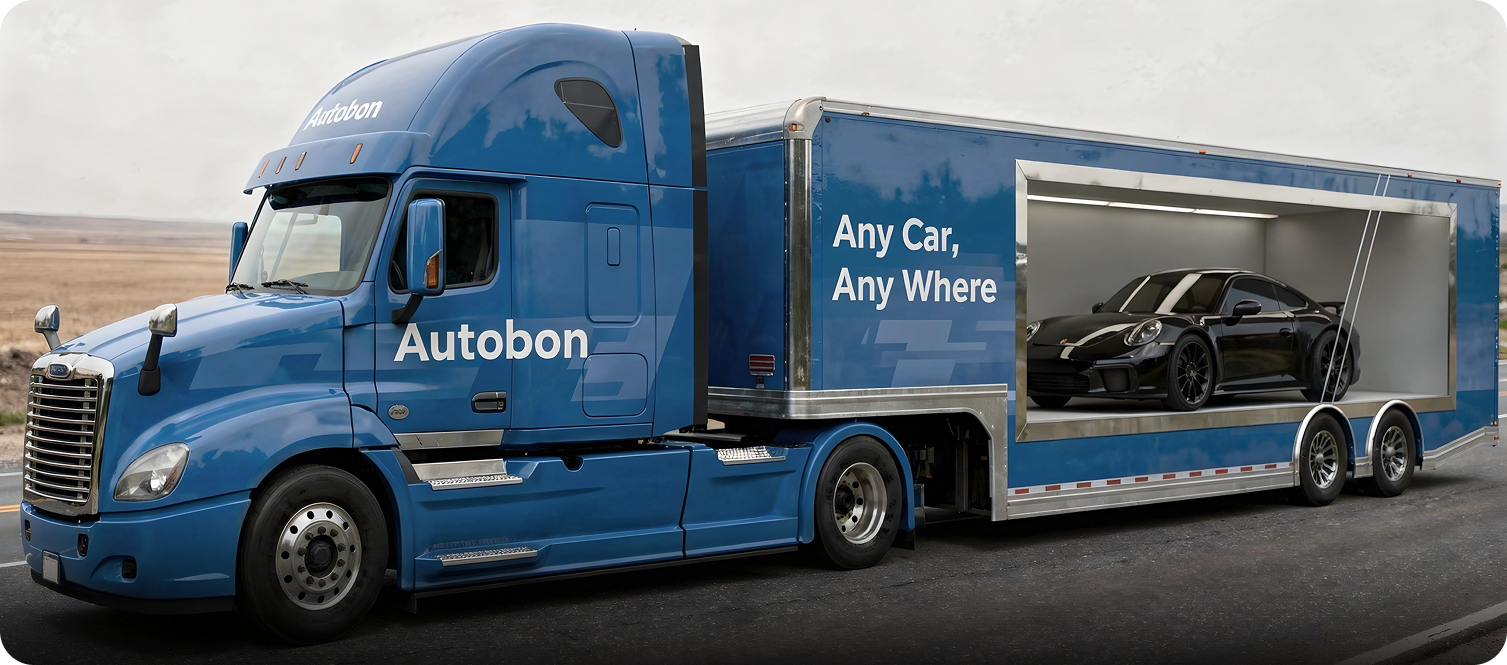
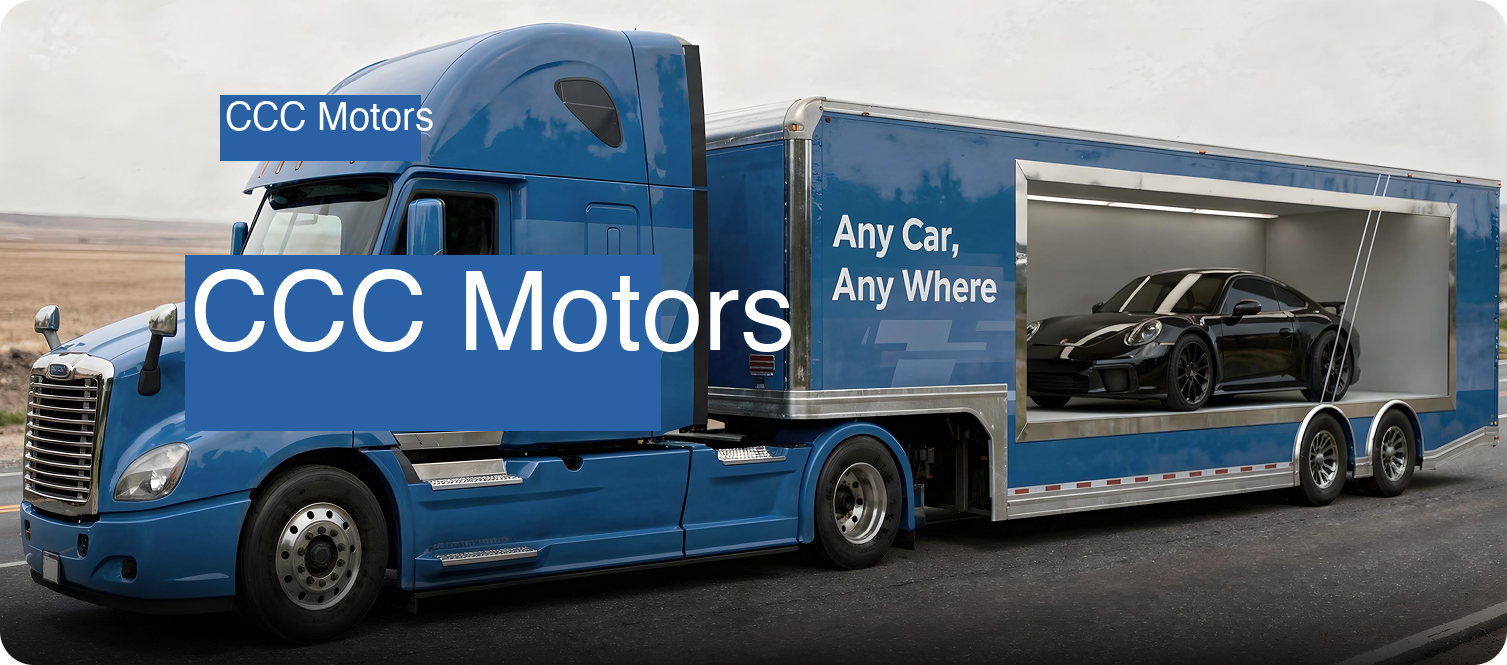
Replace Autobon with CCC Motors in images and JS display text

Changed region(s): [[0.1248, 0.3609, 0.5302, 0.6617], [0.1248, 0.1203, 0.2807, 0.2406]]

diff --git a/autobon.ca/_next/static/chunks/ba9345cc97004f13.js b/autobon.ca/_next/static/chunks/ba9345cc97004f13.js
@@ -5,4 +5,4 @@
                 ${l!==i.length-1?"md:border-r border-[#e3e3e3]":""} 
                 ${l!==i.length-1?"border-b md:border-b-0 border-[#e3e3e3]":""}`,children:(0,t.jsxs)("div",{className:"w-full relative",children:[(0,t.jsx)("span",{className:"absolute left-[-32px] top-0 w-[2px] h-[38px] bg-primary rounded-r-sm"}),(0,t.jsxs)("div",{className:"flex flex-col items-start",children:[(0,t.jsx)("h3",{className:"text-[18px] lg:text-[25px] font-semibold text-black leading-tight mb-2",children:e.title}),(0,t.jsx)("p",{className:"text-[12px  ] lg:text-[15px] text-gray-500 leading-relaxed",children:e.description})]})]})},l))})]})}),s[2]=r):r=s[2],r}])},86116,e=>{"use strict";var t=e.i(43476),l=e.i(932);e.i(71645);var a=e.i(22016);e.s(["default",0,()=>{let e,r,s,i=(0,l.c)(3);i[0]===Symbol.for("react.memo_cache_sentinel")?(e=[{title:"Have a loan?",description:"We’ll pay it off when we buy your car"},{title:"Leasing?",description:"We buy out your lease and you save on tax*"},{title:"Owe more than your car’s worth?",description:"You can pay the difference over time!"}],i[0]=e):e=i[0];let o=e;return i[1]===Symbol.for("react.memo_cache_sentinel")?(r=(0,t.jsx)("div",{className:"flex flex-col items-center gap-1 mb-[60px]",children:(0,t.jsx)("h2",{className:"text-[30px] lg:text-[54px] font-semibold text-black tracking-tight text-center leading-tight",children:"Loan, lease? We'll still buy it!"})}),i[1]=r):r=i[1],i[2]===Symbol.for("react.memo_cache_sentinel")?(s=(0,t.jsx)("section",{className:"w-full bg-background py-[80px] overflow-hidden",children:(0,t.jsxs)("div",{className:" mx-auto px-[20px] lg:px-[0px] flex flex-col items-center",children:[r,(0,t.jsx)("div",{className:"w-full max-w-[1300px] grid grid-cols-1 md:grid-cols-3 border border-[#e3e3e3] rounded-[10px] overflow-hidden bg-white shadow-sm",children:o.map((e,l)=>(0,t.jsxs)("div",{className:`p-8 py-6 lg:py-6 lg:p-10 flex flex-col justify-between items-center lg:items-start text-center lg:text-left transition-colors hover:bg-gray-50/50 
                     ${l!==o.length-1?"md:border-r border-[#e3e3e3]":""} 
-                ${l!==o.length-1?"border-b md:border-b-0 border-[#e3e3e3]":""}`,children:[(0,t.jsxs)("div",{className:"mb-3 flex justify-start items-start flex-col w-full",children:[(0,t.jsx)("h3",{className:" text-[18px]  lg:text-[25px] w-full text-start font-semibold text-[#272727] mb-3",children:e.title}),(0,t.jsx)("p",{className:"text-[12px] lg:text-[16px] text-start text-[#6D6D6D] leading-relaxed max-w-[300px]",children:e.description})]}),(0,t.jsx)("div",{className:"pt-0 mt-auto w-full lg:border-none",children:(0,t.jsx)(a.default,{href:"/finance",className:"group text-center flex items-center gap-2   underline hover:border-primary hover:text-primary transition-all text-[13px] lg:text-[15px] font-medium text-[#272727]",children:"View example"})})]},l))})]})}),i[2]=s):s=i[2],s}])},34582,e=>{"use strict";var t=e.i(43476),l=e.i(932);e.i(71645);var a=e.i(91791),r=e.i(22016);e.s(["default",0,()=>{let e,s,i=(0,l.c)(2);return i[0]===Symbol.for("react.memo_cache_sentinel")?(e=(0,t.jsxs)("div",{className:"relative w-full rounded-[20px] md:rounded-[32px] overflow-hidden    h-[250px] md:h-[500px] lg:h-[600px]",children:[(0,t.jsx)("img",{src:a.default.src,alt:"Trade in and save",className:"absolute inset-0 w-full h-[180px] md:h-full object-cover object-center"}),(0,t.jsx)("div",{className:"absolute hidden lg-visible inset-0 bg-black/35"})]}),i[0]=e):e=i[0],i[1]===Symbol.for("react.memo_cache_sentinel")?(s=(0,t.jsx)("section",{className:"w-full py-[60px] lg:py-[100px] px-[20px] lg:px-[0px]",children:(0,t.jsx)("div",{className:" mx-auto flex flex-col items-center",children:(0,t.jsxs)("div",{className:"relative w-full flex flex-col items-center",children:[e,(0,t.jsxs)("div",{className:"relative z-20 -mt-[100px] md:-mt-[180px] w-[95%] md:w-full max-w-[800px] bg-white rounded-[16px] md:rounded-[23px] shadow-[0_30px_60px_rgba(0,0,0,0.12)] border border-gray-100 p-6 md:p-12 flex flex-col items-center text-center gap-3 md:gap-6",children:[(0,t.jsxs)("div",{className:"flex flex-col items-center gap-3",children:[(0,t.jsx)("h3",{className:"text-[20px] md:text-[36px] font-bold text-[#272727] leading-tight",children:"Trade in and save"}),(0,t.jsx)("p",{className:"text-[10px] md:text-[16px] text-[#6D6D6D] font-medium leading-relaxed max-w-[450px]",children:"Get up to 20% more for your car through tax savings when you trade it in"})]}),(0,t.jsx)(r.default,{href:"/sell-car",className:"md:mt-2  mt-0 max-w-[500px] w-full  bg-primary hover:bg-primary/90 text-white font-semibold px-12 py-3 md:py-4 rounded-full shadow-lg shadow-primary/20 transition-all hover:scale-[1.03] active:scale-[0.97] whitespace-nowrap text-[16px] md:text-[18px]",children:"Get instant offer"})]})]})})}),i[1]=s):s=i[1],s}])},8903,e=>{"use strict";var t=e.i(43476),l=e.i(37902),a=e.i(932);e.i(71645);var r=e.i(67547);e.s(["default",0,()=>{let e,s,i,o,n,c,d=(0,a.c)(6);if(d[0]===Symbol.for("react.memo_cache_sentinel")){let l=[{autobon:"10 days to try it out",autobonSub:"Take your time to know the car",oldway:"No return option",oldwaySub:"Sale is final"},{autobon:"Only 15 mins on average",autobonSub:"Quick and efficient process",oldway:"Haggling forever",oldwaySub:"Hours spent at dealerships"},{autobon:"You pick your route",autobonSub:"City, highway, night, rain, etc.",oldway:"Seller picks route",oldwaySub:"Limited speeds/conditions"},{autobon:"Completely unaccompanied",autobonSub:"No pressure, no rush",oldway:"Accompanied by salesperson",oldwaySub:"Constant pressure to decide"},{autobon:"Full money-back guarantee",autobonSub:"For any reason",oldway:"Limited feel for quirks",oldwaySub:"Hidden issues stay yours"}];e=e=>(0,t.jsx)("div",{className:"flex-1 flex flex-col",children:l.map((l,a)=>(0,t.jsx)("div",{className:`flex-1 p-4 lg:p-4 flex items-start justify-start gap-4 border-b border-gray-100 last:border-0 ${a%2==0?"bg-[#fafafa]":"bg-white"}`,children:(0,t.jsxs)("div",{className:"flex flex-col text-left",children:[(0,t.jsx)("span",{className:`text-[13px] lg:text-[15px] leading-tight ${"autobon"===e?"font-semibold text-black":"font-semibold text-[#272727]"}`,children:"autobon"===e?l.autobon:l.oldway}),(0,t.jsx)("span",{className:"text-[11px] lg:text-[13px] text-gray-500 font-medium mt-1",children:"autobon"===e?l.autobonSub:l.oldwaySub})]})},a))}),d[0]=e}else e=d[0];let x=e;return d[1]===Symbol.for("react.memo_cache_sentinel")?(s=(0,t.jsx)(l.default,{id:"29f0e6afc5f8358a",children:"@keyframes leaf-rotate{0%{transform:rotate(-10deg)}50%{transform:rotate(10deg)}to{transform:rotate(-10deg)}}.animate-leaf.jsx-29f0e6afc5f8358a{animation:3s ease-in-out infinite leaf-rotate}"}),d[1]=s):s=d[1],d[2]===Symbol.for("react.memo_cache_sentinel")?(i=(0,t.jsx)("div",{className:"flex flex-col items-center gap-4 mb-[40px] lg:mb-[60px] text-center",children:(0,t.jsxs)("h2",{className:"text-[32px] lg:text-[54px] font-semibold text-black tracking-tight leading-tight max-w-[900px]",children:["Why sell your car online to"," ",(0,t.jsx)("span",{className:"text-primary",children:"CCC Motors?"})]})}),d[2]=i):i=d[2],d[3]===Symbol.for("react.memo_cache_sentinel")?(o=(0,t.jsxs)("div",{className:"relative w-full md:flex-1 overflow-hidden order-1 md:order-1 flex flex-col bg-white rounded-[10px] md:scale-100 border border-[#DDDDDD] sp-shadow z-20",children:[(0,t.jsxs)("div",{className:"p-6 pb-4 flex justify-between items-center border-b border-[#DDDDDD] bg-white rounded-t-[20px]",children:[(0,t.jsx)("div",{children:(0,t.jsxs)("h3",{className:"text-[20px] lg:text-[26px] font-bold text-[#272727]",children:["The ",(0,t.jsx)("span",{className:"text-primary",children:"CCC Motors"})," way"]})}),(0,t.jsx)("img",{src:r.default.src,alt:"Leaf",className:"animate-leaf w-8 h-8 lg:w-10 lg:h-10"})]}),x("autobon")]}),d[3]=o):o=d[3],d[4]===Symbol.for("react.memo_cache_sentinel")?(n=(0,t.jsx)("div",{className:"order-2 flex items-center justify-center mt-5",children:(0,t.jsx)("div",{className:"text-[#606060] font-semibold w-12 h-12 lg:w-16 lg:h-16 rounded-full flex items-center justify-center italic text-lg lg:text-xl z-30",children:"-VS-"})}),d[4]=n):n=d[4],d[5]===Symbol.for("react.memo_cache_sentinel")?(c=(0,t.jsxs)("section",{className:"w-full bg-background py-[60px] lg:py-[100px] overflow-hidden",children:[s,(0,t.jsxs)("div",{className:"mx-auto px-[20px] lg:px-[0px] flex flex-col items-center",children:[i,(0,t.jsxs)("div",{className:"flex flex-col md:flex-row lg:px-20 w-full max-w-[1100px] items-center justify-center gap-0 md:gap-6 lg:gap-10",children:[o,n,(0,t.jsxs)("div",{className:"w-full scale-90 md:flex-1 order-3 md:order-3 flex flex-col bg-white border border-[#DDDDDD] rounded-[10px] overflow-hidden opacity-90 md:opacity-80 md:scale-90 transition-all hover:opacity-100",children:[(0,t.jsx)("div",{className:"p-6 pb-4 bg-white border-b border-[#DDDDDD] bg-[#F9F9F9]",children:(0,t.jsx)("h3",{className:"text-[20px] font-bold text-[#272727]",children:"The old way"})}),x("oldway")]})]})]})]}),d[5]=c):c=d[5],c}])}]);
+                ${l!==o.length-1?"border-b md:border-b-0 border-[#e3e3e3]":""}`,children:[(0,t.jsxs)("div",{className:"mb-3 flex justify-start items-start flex-col w-full",children:[(0,t.jsx)("h3",{className:" text-[18px]  lg:text-[25px] w-full text-start font-semibold text-[#272727] mb-3",children:e.title}),(0,t.jsx)("p",{className:"text-[12px] lg:text-[16px] text-start text-[#6D6D6D] leading-relaxed max-w-[300px]",children:e.description})]}),(0,t.jsx)("div",{className:"pt-0 mt-auto w-full lg:border-none",children:(0,t.jsx)(a.default,{href:"/finance",className:"group text-center flex items-center gap-2   underline hover:border-primary hover:text-primary transition-all text-[13px] lg:text-[15px] font-medium text-[#272727]",children:"View example"})})]},l))})]})}),i[2]=s):s=i[2],s}])},34582,e=>{"use strict";var t=e.i(43476),l=e.i(932);e.i(71645);var a=e.i(91791),r=e.i(22016);e.s(["default",0,()=>{let e,s,i=(0,l.c)(2);return i[0]===Symbol.for("react.memo_cache_sentinel")?(e=(0,t.jsxs)("div",{className:"relative w-full rounded-[20px] md:rounded-[32px] overflow-hidden    h-[250px] md:h-[500px] lg:h-[600px]",children:[(0,t.jsx)("img",{src:a.default.src,alt:"Trade in and save",className:"absolute inset-0 w-full h-[180px] md:h-full object-cover object-center"}),(0,t.jsx)("div",{className:"absolute hidden lg-visible inset-0 bg-black/35"})]}),i[0]=e):e=i[0],i[1]===Symbol.for("react.memo_cache_sentinel")?(s=(0,t.jsx)("section",{className:"w-full py-[60px] lg:py-[100px] px-[20px] lg:px-[0px]",children:(0,t.jsx)("div",{className:" mx-auto flex flex-col items-center",children:(0,t.jsxs)("div",{className:"relative w-full flex flex-col items-center",children:[e,(0,t.jsxs)("div",{className:"relative z-20 -mt-[100px] md:-mt-[180px] w-[95%] md:w-full max-w-[800px] bg-white rounded-[16px] md:rounded-[23px] shadow-[0_30px_60px_rgba(0,0,0,0.12)] border border-gray-100 p-6 md:p-12 flex flex-col items-center text-center gap-3 md:gap-6",children:[(0,t.jsxs)("div",{className:"flex flex-col items-center gap-3",children:[(0,t.jsx)("h3",{className:"text-[20px] md:text-[36px] font-bold text-[#272727] leading-tight",children:"Trade in and save"}),(0,t.jsx)("p",{className:"text-[10px] md:text-[16px] text-[#6D6D6D] font-medium leading-relaxed max-w-[450px]",children:"Get up to 20% more for your car through tax savings when you trade it in"})]}),(0,t.jsx)(r.default,{href:"/sell-car",className:"md:mt-2  mt-0 max-w-[500px] w-full  bg-primary hover:bg-primary/90 text-white font-semibold px-12 py-3 md:py-4 rounded-full shadow-lg shadow-primary/20 transition-all hover:scale-[1.03] active:scale-[0.97] whitespace-nowrap text-[16px] md:text-[18px]",children:"Get instant offer"})]})]})})}),i[1]=s):s=i[1],s}])},8903,e=>{"use strict";var t=e.i(43476),l=e.i(37902),a=e.i(932);e.i(71645);var r=e.i(67547);e.s(["default",0,()=>{let e,s,i,o,n,c,d=(0,a.c)(6);if(d[0]===Symbol.for("react.memo_cache_sentinel")){let l=[{autobon:"10 days to try it out",autobonSub:"Take your time to know the car",oldway:"No return option",oldwaySub:"Sale is final"},{autobon:"Only 15 mins on average",autobonSub:"Quick and efficient process",oldway:"Haggling forever",oldwaySub:"Hours spent at dealerships"},{autobon:"You pick your route",autobonSub:"City, highway, night, rain, etc.",oldway:"Seller picks route",oldwaySub:"Limited speeds/conditions"},{autobon:"Completely unaccompanied",autobonSub:"No pressure, no rush",oldway:"Accompanied by salesperson",oldwaySub:"Constant pressure to decide"},{autobon:"Full money-back guarantee",autobonSub:"For any reason",oldway:"Limited feel for quirks",oldwaySub:"Hidden issues stay yours"}];e=e=>(0,t.jsx)("div",{className:"flex-1 flex flex-col",children:l.map((l,a)=>(0,t.jsx)("div",{className:`flex-1 p-4 lg:p-4 flex items-start justify-start gap-4 border-b border-gray-100 last:border-0 ${a%2==0?"bg-[#fafafa]":"bg-white"}`,children:(0,t.jsxs)("div",{className:"flex flex-col text-left",children:[(0,t.jsx)("span",{className:`text-[13px] lg:text-[15px] leading-tight ${"autobon"===e?"font-semibold text-black":"font-semibold text-[#272727]"}`,children:"autobon"===e?l.autobon:l.oldway}),(0,t.jsx)("span",{className:"text-[11px] lg:text-[13px] text-gray-500 font-medium mt-1",children:"autobon"===e?l.autobonSub:l.oldwaySub})]})},a))}),d[0]=e}else e=d[0];let x=e;return d[1]===Symbol.for("react.memo_cache_sentinel")?(s=(0,t.jsx)(l.default,{id:"29f0e6afc5f8358a",children:"@keyframes leaf-rotate{0%{transform:rotate(-10deg)}50%{transform:rotate(10deg)}to{transform:rotate(-10deg)}}.animate-leaf.jsx-29f0e6afc5f8358a{animation:3s ease-in-out infinite leaf-rotate}"}),d[1]=s):s=d[1],d[2]===Symbol.for("react.memo_cache_sentinel")?(i=(0,t.jsx)("div",{className:"flex flex-col items-center gap-4 mb-[40px] lg:mb-[60px] text-center",children:(0,t.jsxs)("h2",{className:"text-[32px] lg:text-[54px] font-semibold text-black tracking-tight leading-tight max-w-[900px]",children:["Why sell your car online to"," ",(0,t.jsx)("span",{className:"text-primary",children:"CCC Motors?"})]})}),d[2]=i):i=d[2],d[3]===Symbol.for("react.memo_cache_sentinel")?(o=(0,t.jsxs)("div",{className:"relative w-full md:flex-1 overflow-hidden order-1 md:order-1 flex flex-col bg-white rounded-[10px] md:scale-100 border border-[#DDDDDD] sp-shadow z-20",children:[(0,t.jsxs)("div",{className:"p-6 pb-4 flex justify-between items-center border-b border-[#DDDDDD] bg-white rounded-t-[20px]",children:[(0,t.jsx)("div",{children:(0,t.jsxs)("h3",{className:"text-[20px] lg:text-[26px] font-bold text-[#272727]",children:["The ",(0,t.jsx)("span",{className:"text-primary",children:"CCC Motors"})," way"]})}),(0,t.jsx)("img",{src:r.default.src,alt:"Leaf",className:"animate-leaf w-8 h-8 lg:w-10 lg:h-10"})]}),x("CCC Motors")]}),d[3]=o):o=d[3],d[4]===Symbol.for("react.memo_cache_sentinel")?(n=(0,t.jsx)("div",{className:"order-2 flex items-center justify-center mt-5",children:(0,t.jsx)("div",{className:"text-[#606060] font-semibold w-12 h-12 lg:w-16 lg:h-16 rounded-full flex items-center justify-center italic text-lg lg:text-xl z-30",children:"-VS-"})}),d[4]=n):n=d[4],d[5]===Symbol.for("react.memo_cache_sentinel")?(c=(0,t.jsxs)("section",{className:"w-full bg-background py-[60px] lg:py-[100px] overflow-hidden",children:[s,(0,t.jsxs)("div",{className:"mx-auto px-[20px] lg:px-[0px] flex flex-col items-center",children:[i,(0,t.jsxs)("div",{className:"flex flex-col md:flex-row lg:px-20 w-full max-w-[1100px] items-center justify-center gap-0 md:gap-6 lg:gap-10",children:[o,n,(0,t.jsxs)("div",{className:"w-full scale-90 md:flex-1 order-3 md:order-3 flex flex-col bg-white border border-[#DDDDDD] rounded-[10px] overflow-hidden opacity-90 md:opacity-80 md:scale-90 transition-all hover:opacity-100",children:[(0,t.jsx)("div",{className:"p-6 pb-4 bg-white border-b border-[#DDDDDD] bg-[#F9F9F9]",children:(0,t.jsx)("h3",{className:"text-[20px] font-bold text-[#272727]",children:"The old way"})}),x("oldway")]})]})]})]}),d[5]=c):c=d[5],c}])}]);
